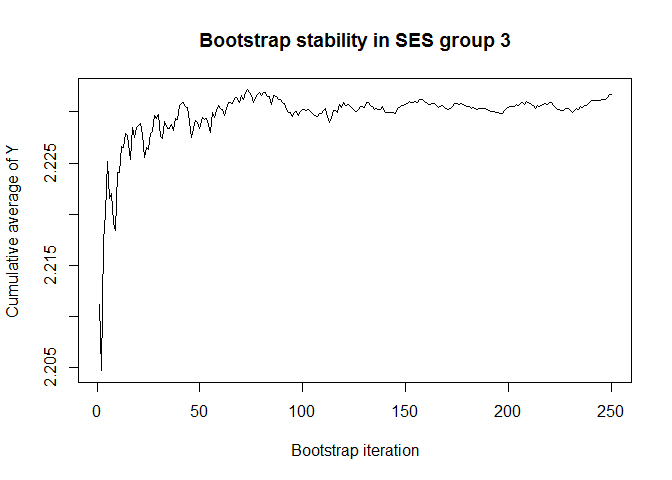
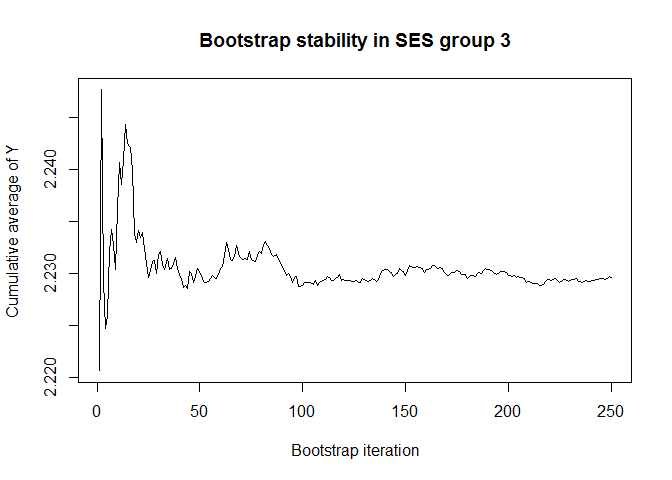
Update

diff --git a/README.md b/README.md
@@ -9,16 +9,18 @@
 Status](https://travis-ci.com/MaartenBijlsma/cfdecomp.svg?branch=master)](https://travis-ci.com/MaartenBijlsma/cfdecomp)
 <!-- badges: end -->
 
-cfdecomp provides functions to decompose differences in an outcome
-attributable to a mediating variable (or sets of mediating variables)
-between groups. By using Monte Carlo Integration (simulations based on
-empirical estimates from multivariable models) we provide added
-flexibility compared to existing (analytical) approaches, at the cost of
-computational power or time. The added flexibility means that we can
-decompose difference between groups in any outcome or and with any
-mediator (any variable type and distribution). See the Sudharsanan &
-Bijlsma Working Paper for more information:
-<https://www.demogr.mpg.de/papers/working/wp-2019-004.pdf>.
+cfdecomp stands for ‘counterfactual decomposition’. This package
+provides functions to decompose differences in an outcome attributable
+to a mediating variable (or sets of mediating variables) between groups
+based on counterfactual (causal inference) theory. By using Monte Carlo
+Integration (simulations based on empirical estimates from multivariable
+models) we provide added flexibility compared to existing (analytical)
+approaches, at the cost of computational power or time. The added
+flexibility means that we can decompose difference between groups in any
+outcome or and with any mediator (any variable type and distribution).
+See the [Sudharsanan & Bijlsma Working
+Paper](https://www.demogr.mpg.de/papers/working/wp-2019-004.pdf) for
+more information.
 
 ## Installation
 
@@ -62,7 +64,7 @@ abline(v=mean(cfd.example.data$med.gauss[cfd.example.data$SES==1]),lwd=4)
 ``` r
 # approximation of the mean of M over the Monte Carlo iterations for SES group 1:
 mean(mean.results.1$out_nc_m[,1])
-#> [1] 8.165792
+#> [1] 8.161517
 # empirical mean of mediator M for SES group 1:
 mean(cfd.example.data$med.gauss[cfd.example.data$SES==1])
 #> [1] 8.163461
@@ -79,7 +81,7 @@ abline(v=mean(cfd.example.data$med.gauss[cfd.example.data$SES==2]),lwd=4)
 
 ``` r
 mean(mean.results.1$out_nc_m[,2]);mean(cfd.example.data$med.gauss[cfd.example.data$SES==2])
-#> [1] 7.190697
+#> [1] 7.181451
 #> [1] 7.186521
 # conclusion: also for group 2, approximation is good
 
@@ -94,7 +96,7 @@ abline(v=mean(cfd.example.data$med.gauss[cfd.example.data$SES==3]),lwd=4)
 
 ``` r
 mean(mean.results.1$out_nc_m[,3]);mean(cfd.example.data$med.gauss[cfd.example.data$SES==3])
-#> [1] 5.38139
+#> [1] 5.377285
 #> [1] 5.376548
 # conclusion: also for group 3, approximation of M is good
 
@@ -110,7 +112,7 @@ abline(v=mean(cfd.example.data$out.gauss[cfd.example.data$SES==1]),lwd=4)
 
 ``` r
 mean(mean.results.1$out_nc_y[,1]);mean(cfd.example.data$out.gauss[cfd.example.data$SES==1])
-#> [1] 4.148531
+#> [1] 4.142015
 #> [1] 4.145881
 # conclusion: on average, our distributions of means of Y centers on the empirical distribution of Y 
 
@@ -125,7 +127,7 @@ abline(v=mean(cfd.example.data$out.gauss[cfd.example.data$SES==2]),lwd=4)
 
 ``` r
 mean(mean.results.1$out_nc_y[,2]);mean(cfd.example.data$out.gauss[cfd.example.data$SES==2])
-#> [1] 3.286306
+#> [1] 3.282428
 #> [1] 3.284409
 # conclusion: also for group 2, approximation of Y is good
 
@@ -140,7 +142,7 @@ abline(v=mean(cfd.example.data$out.gauss[cfd.example.data$SES==3]),lwd=4)
 
 ``` r
 mean(mean.results.1$out_nc_y[,3]);mean(cfd.example.data$out.gauss[cfd.example.data$SES==3])
-#> [1] 2.231659
+#> [1] 2.22959
 #> [1] 2.227222
 # conclusion: also for group 3, approximation of Y is good
 
@@ -149,26 +151,26 @@ mean(mean.results.1$out_nc_y[,3]);mean(cfd.example.data$out.gauss[cfd.example.da
 # estimate the effect of the intervention and proportion mediated (decomposition)
 # the differences between SES groups 1 and 2 were first:
 mean(mean.results.1$out_nc_y[,2] - mean.results.1$out_nc_y[,1])
-#> [1] -0.8622249
+#> [1] -0.8595873
 # and after giving the gaussian mediator of SES group 2 the distribution of the one in group 1
 # the difference becomes:
 mean(mean.results.1$out_cf_y[,2] - mean.results.1$out_nc_y[,1])
-#> [1] -0.6567513
+#> [1] -0.6520602
 # so the proportion of the outcome Y that is due to differences between the two SES groups in the gaussian mediator is
 mean(1-(mean.results.1$out_cf_y[,2] - mean.results.1$out_nc_y[,1]) / (mean.results.1$out_nc_y[,2] - mean.results.1$out_nc_y[,1]))
-#> [1] 0.2387491
+#> [1] 0.2418584
 # we can also get this number, and the one from the comparison of the other SES group with group 1, straight from the object
 mean.results.1$mediation
 #>         2         3 
-#> 0.2387491 0.3044589
+#> 0.2418584 0.3067527
 # you'll notice the first number is the same as the one we calculated ourselves from the output
 # this is the proportion mediated when coming the first and the second SES group
 # the second number is the proportion mediated when comparing the first and the third SES group
 # and we can get the 1-alpha confidence intervals for each:
 mean.results.1$mediation_quantile
 #>               2         3
-#> 2.5%  0.1998024 0.2786597
-#> 97.5% 0.2821616 0.3297141
+#> 2.5%  0.2046796 0.2794630
+#> 97.5% 0.2771258 0.3322047
 
 # if a mediator is binomial distributed
 mean.results.2 <- cfd.mean(formula.y='out.gauss ~ med.pois + age + med.binom',
